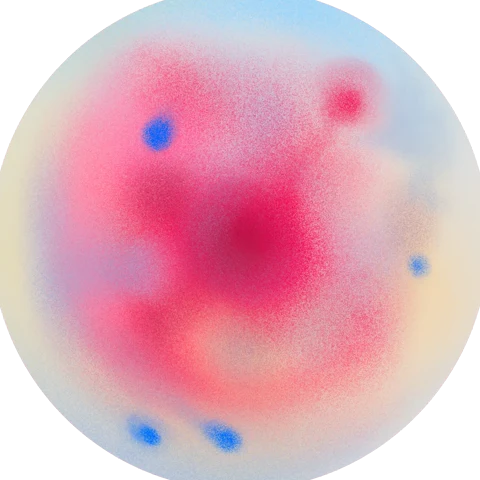
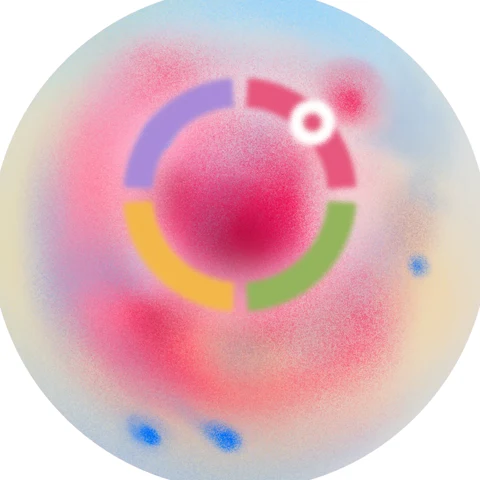
Explore bubbles: airbrushed motifs painted onto her orbs so they read at a glance: a honey bee for Superfoods, a four-phase ring for Cycle guide, balanced stones for Balance hormones, breath swirls for Breathe

Changed region(s): [[0.2188, 0.125, 0.75, 0.6875]]

diff --git a/sw.js b/sw.js
@@ -1,5 +1,5 @@
 // Offline cache for the app shell. Bump VERSION when shipping changes.
-const VERSION = 'uts-v1348';
+const VERSION = 'uts-v1349';
 const SHELL = ['./', './index.html', './js/lotus.js', './styles.css', './manifest.json', './icons/icon-192.png', './icons/icon-512.png', './icons/apple-touch-icon.png', './icons/icon-64.png', './icons/icon-32.png', './icons/icon-maskable-512.png', './fonts/ballet-latin.woff2', './fonts/ballet-latin-ext.woff2',
   './js/app.js', './js/data.js', './js/cycle.js', './js/legal.js', './js/i18n.js', './js/icons.js', './js/cosmic.js', './js/astro.js', './js/moonguide.js', './js/moon3d.js', './js/figure.js', './js/figure3d.js', './js/torso.js', './js/torso3d.js', './js/photos.js', './js/seasonal.js', './js/world.js', './js/ground.js', './js/athlete.js', './js/bodymap.js', './js/molecules.js', './js/welcome3d.js', './js/teacup3d.js', './js/sfx.js', './js/ticketmotion.js', './js/sun.js', './js/account.js', './js/config.js', './images/planet.jpg', './images/gate-rose.webp', './images/lotus-menstrual.webp', './images/lotus-follicular.webp', './images/lotus-ovulatory.webp', './images/lotus-luteal.webp', './images/breath-bud.webp', './images/breath-bloom.webp', './images/period.png', './images/partner-cinema.webp', './images/partner-hands.jpg', './images/ground-roots.jpg', './images/ground/golden-roots.webp', './images/pixel-aura-0.png', './images/pixel-aura-1.png', './images/pixel-aura-2.png', './images/pixel-aura-3.png', './images/sun-moon.webp', './images/sun-moon.mp4', './images/tea-ginger.webp', './images/sun-moon-poster.webp', './images/rhythm-sun.webp', './images/move-stardust.mp4', './images/move-stardust.webp', './images/move-meditate.webp', './images/move-walk.webp', './images/move-yoga.webp', './images/move-sport.webp', './images/move-pilates.webp', './images/move-hiit.webp', './images/move-lift.webp', './images/season-veg.webp', './images/season-fruit.webp', './images/stress-meditate.mp4', './images/stress-meditate.webp', './images/stress-breathe.mp4', './images/stress-breathe.webp', './images/forest-path.jpg', './images/welcome-forest.jpg', './images/welcome-leaves.webp', './images/welcome-forest-bare.jpg', './images/intro-forest.jpg', './images/forest-calm.jpg', './images/tile-meditate.webp', './images/tile-ground.webp', './images/tile-walk.webp', './images/tile-yoga.webp', './images/tile-sport.webp', './images/tile-pilates.webp', './images/tile-hiit.webp', './images/tile-lift.webp', './images/purpose-body.jpg', './images/purpose-conceive.jpg', './images/purpose-after.jpg', './images/purpose-after-feet.jpg', './images/period-food.webp', './images/plate.webp', './images/read-lilies.webp', './images/read-seasons.webp', './models/body2.glb', './models/teacup.glb', './models/matcha.glb', './models/greentea.glb', './images/cup-matcha.webp', './models/soup.glb', './images/dish-soup.webp', './models/pho.glb', './images/dish-pho.webp', './models/miso.glb', './images/dish-miso.webp', './models/stew.glb', './images/dish-stew.webp', './models/veg-plate.glb', './models/salad-a.glb', './images/dish-salad-a.webp', './models/salad-b.glb', './images/dish-salad-b.webp', './images/dish-veg.webp', './models/taco.glb', './images/dish-taco.webp', './models/gyro.glb', './images/dish-gyro.webp', './models/marrow.glb', './images/dish-marrow.webp', './models/curry.glb', './images/dish-curry.webp', './models/steak.glb', './images/dish-steak.webp', './models/sweet-potato.glb', './images/dish-sweet-potato.webp', './models/mint-tea.glb', './images/cup-mint.webp', './models/chamomile.glb', './images/cup-chamomile.webp', './models/hibiscus.glb', './models/latte.glb', './models/coffee.glb', './models/broth.glb', './models/cortisol.glb', './images/cortisol-mol.webp', './models/moon.glb', './images/cup-chai.webp', './images/cup-hibiscus.webp', './images/cup-glass.webp', './sounds/forest-stream.m4a', './images/herbs/astragalus.svg', './images/herbs/red-dates.svg', './images/herbs/ginger.svg', './images/herbs/clove.svg', './images/herbs/cinnamon.svg', './images/herbs/goji.svg', './images/herbs/reishi.svg', './images/herbs/chaga.svg', './images/herbs/he-shou-wu.svg', './images/drinks/broth.svg', './images/drinks/cacao.svg', './images/drinks/chamomile-tea.svg', './images/drinks/coconut-water.svg', './images/drinks/coffee.svg', './images/drinks/ginger-tea.svg', './images/drinks/green-juice.svg', './images/drinks/hibiscus-tea.svg', './images/drinks/iced-matcha.svg', './images/drinks/lemon-water.svg', './images/drinks/matcha-latte.svg', './images/drinks/matcha.svg', './images/drinks/mineral-water.svg', './images/drinks/nettle-tea.svg', './images/drinks/raspberry-leaf-tea.svg', './images/drinks/red-date-tea.svg', './images/emoji/iron-ore.svg', './images/emoji/log-cramps.svg', './images/emoji/log-pelvic-pain.svg', './images/emoji/log-joint-pain.svg', './images/emoji/log-constipation.svg', './images/emoji/log-acne.svg', './images/emoji/log-brain-fog.svg', './images/emoji/log-unusual-colour.svg', './images/emoji/amla.svg', './images/emoji/apricot.svg', './images/emoji/artichoke.svg', './images/emoji/asian-pear.svg', './images/emoji/bamboo-shoot.svg', './images/emoji/bean-sprouts.svg', './images/emoji/bitter-gourd.svg', './images/emoji/black-trumpet.svg', './images/emoji/blackberry.svg', './images/emoji/bottle-gourd.svg', './images/emoji/brussels-sprouts.svg', './images/emoji/burdock.svg', './images/emoji/button-mushroom.svg', './images/emoji/cardoon.svg', './images/emoji/cassava.svg', './images/emoji/cauliflower.svg', './images/emoji/celeriac.svg', './images/emoji/chanterelle.svg', './images/emoji/chard.svg', './images/emoji/chayote.svg', './images/emoji/cloudberry.svg', './images/emoji/cranberry.svg', './images/emoji/currants.svg', './images/emoji/custard-apple.svg', './images/emoji/daikon.svg', './images/emoji/dandelion.svg', './images/emoji/dragon-fruit.svg', './images/emoji/drumsticks.svg', './images/emoji/elderberry.svg', './images/emoji/enoki.svg', './images/emoji/feijoa.svg', './images/emoji/fiddlehead.svg', './images/emoji/green-plum.svg', './images/emoji/guava.svg', './images/emoji/horseradish.svg', './images/emoji/jackfruit.svg', './images/emoji/jamun.svg', './images/emoji/jerusalem-artichoke.svg', './images/emoji/kale.svg', './images/emoji/king-oyster.svg', './images/emoji/kohlrabi.svg', './images/emoji/korean-melon.svg', './images/emoji/leek.svg', './images/emoji/lingonberry.svg', './images/emoji/lions-mane.svg', './images/emoji/long-beans.svg', './images/emoji/loquat.svg', './images/emoji/lotus-root.svg', './images/emoji/lychee.svg', './images/emoji/mangosteen.svg', './images/emoji/morel.svg', './images/emoji/okra.svg', './images/emoji/oyster-mushroom.svg', './images/emoji/papaya.svg', './images/emoji/parsnip.svg', './images/emoji/passion-fruit.svg', './images/emoji/persimmon.svg', './images/emoji/plum.svg', './images/emoji/porcini.svg', './images/emoji/prickly-pear.svg', './images/emoji/rambutan.svg', './images/emoji/raspberry.svg', './images/emoji/ridge-gourd.svg', './images/emoji/rosehip.svg', './images/emoji/salsify.svg', './images/emoji/samphire.svg', './images/emoji/sea-buckthorn.svg', './images/emoji/shiitake.svg', './images/emoji/spring-onion.svg', './images/emoji/starfruit.svg', './images/emoji/tamarind.svg', './images/emoji/taro.svg', './images/emoji/turnip.svg', './images/emoji/watercress.svg', './images/emoji/yuzu.svg', './images/emoji/almonds.webp', './images/emoji/asparagus.webp', './images/emoji/beetroot.webp', './images/emoji/black-sesame.webp', './images/emoji/cardamom.webp', './images/emoji/chia.webp', './images/emoji/cinnamon.webp', './images/emoji/fennel-seeds.webp', './images/emoji/fennel.webp', './images/emoji/fig.webp', './images/emoji/flaxseed.webp', './images/emoji/goji.webp', './images/emoji/hemp.webp', './images/emoji/liver.webp', './images/emoji/pomegranate.webp', './images/emoji/pumpkin-seeds.webp', './images/emoji/quince.webp', './images/emoji/radish.webp', './images/emoji/red-dates.webp', './images/emoji/rhubarb.webp', './images/emoji/sesame.webp', './images/emoji/sunflower-seeds.webp', './images/emoji/tahini.webp', './images/emoji/turmeric.webp', './images/emoji/walnuts.webp', './images/emoji/black-seed-oil.svg', './images/emoji/cacao.svg', './images/emoji/water.svg', './images/emoji/black-pepper.svg', './images/emoji/cumin.svg', './images/emoji/curry.svg', './images/emoji/dates.svg', './images/emoji/maple-syrup.svg', './images/emoji/mayonnaise.svg', './images/emoji/mustard.svg', './images/emoji/nutmeg.svg', './images/emoji/nutritional-yeast.svg', './images/emoji/paprika.svg', './images/emoji/tamari.svg', './images/emoji/toothpick.svg', './images/emoji/vanilla.svg', './images/bg/mist.webp', './images/bg/arch.webp', './images/bg/arch-band.webp', './images/bg/frame-band.webp', './images/bg/frame-top.webp', './images/bg/frame-bottom.webp', './images/bg/frame-side.webp', './images/bg/leaves.webp', './images/bg/lotus.webp', './images/bg/lotus-petals.webp', './images/bg/lotus-lines.webp', './images/bg/swirls.webp', './images/tea-glow-bg.webp', './images/herbs/astragalus-real.webp', './images/herbs/clove-real.webp', './images/herbs/chaga-real.webp', './images/herbs/reishi-real.webp', './images/herbs/he-shou-wu-photo.webp', './images/sf/astragalus.webp', './images/sf/elderberries.webp', './images/sf/walnuts.webp', './images/sf/iron.webp', './images/drinks/cup-covered.svg', './images/pets/bunny.svg', './images/pets/kitty.svg', './images/pets/bear.svg', './images/pets/panda.svg', './images/pets/fox.svg', './images/pets/frog.svg', './images/pets/chick.svg', './images/pets/hamster.svg'];
 

diff --git a/js/app.js b/js/app.js
@@ -2068,7 +2068,7 @@ function viewToday() {
 }
 // Explore: every button a full photo with a frosted label.
 function exploreGrid(info) {
-  // her own painted orbs (from Canva) for four of the bubbles
+  // her own painted orbs (from Canva) with a little airbrushed motif: bee, cycle ring, balanced stones, breath
   const tiles = [['super', 'leaf', 'Superfoods', 'Spices & superfoods for your phase', 'images/xb/super.webp'], ['guide', 'chart', 'Cycle guide', `Day ${info.cd}, day by day`, 'images/xb/guide.webp'],
     ['relief', 'heart', 'Balance hormones', 'Step by step, fundamentals first', 'images/xb/relief.webp'],
     ['tea', 'cup', 'Tea guide', 'For every need', 'images/tea-ginger.webp'], ['breathe', 'leaf', 'Breathe', 'Meditate & breathe', 'images/xb/breathe.webp']];
